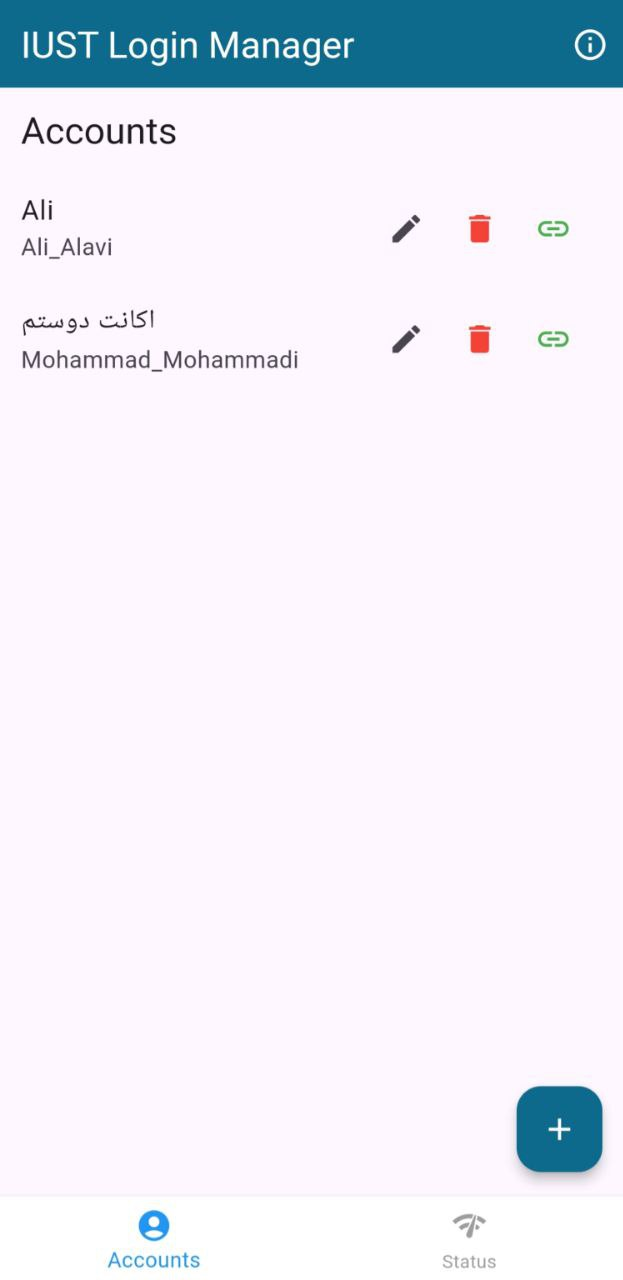
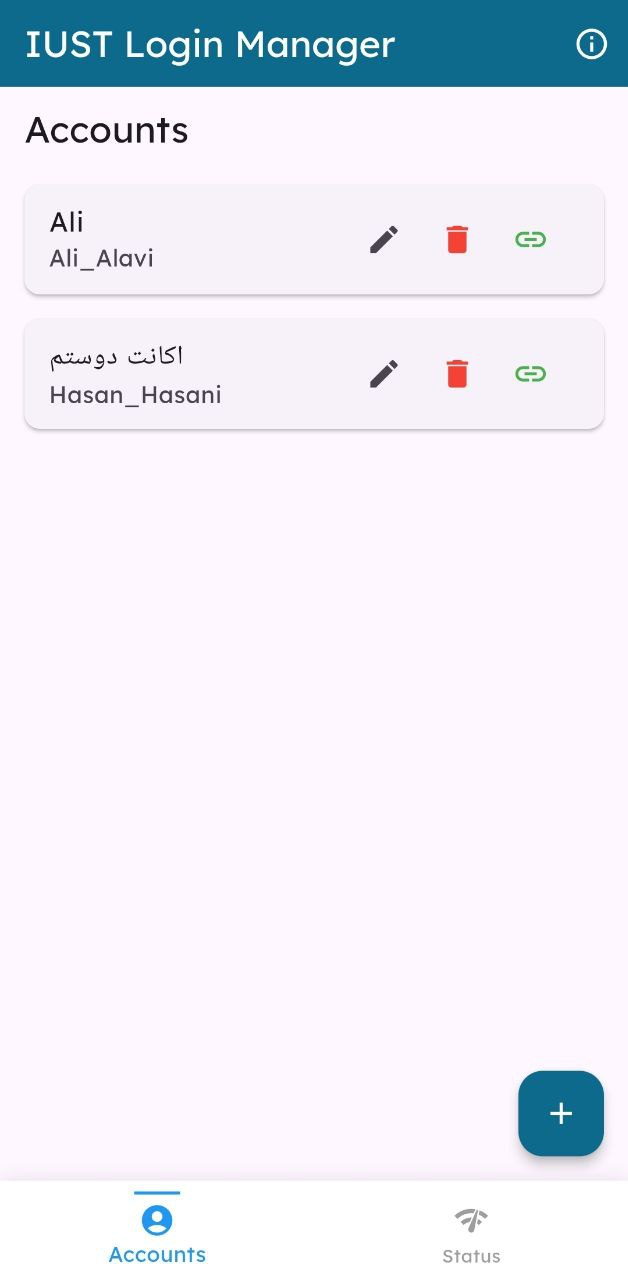
update readme file

diff --git a/README.md b/README.md
@@ -98,6 +98,10 @@ Contributions are welcome! If you'd like to contribute, please fork the reposito
 
 This project is licensed under the MIT License. See the [LICENSE](LICENSE) file for details.
 
+## Acknowledgment
+
+Special thanks to [**Arash Farzaneh Nejad**](https://github.com/saneswan) for refining the UI/UX design.
+
 ---
 
 Thank you for using **IUST Login Manager**!  
